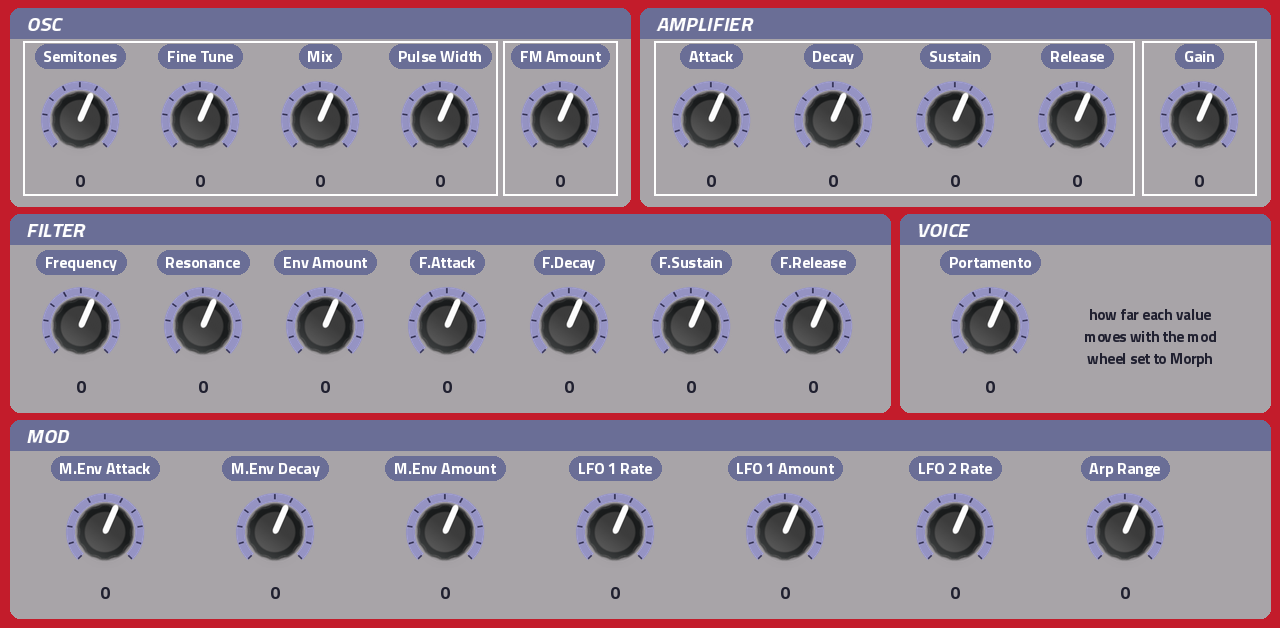
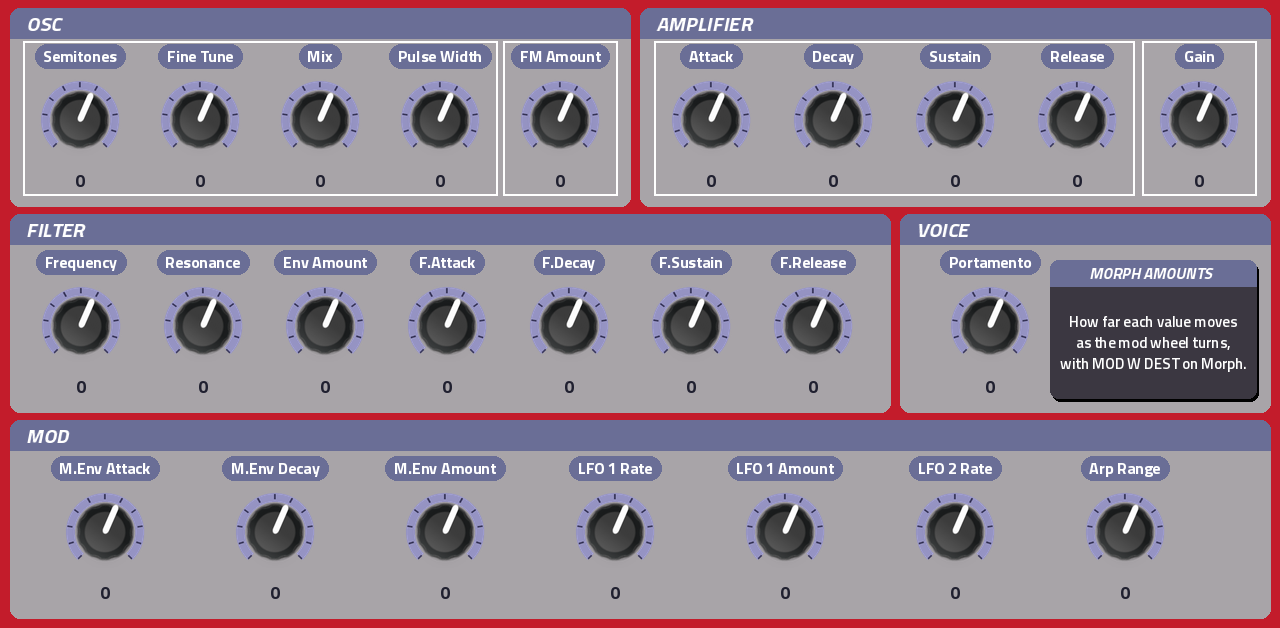
Skin: MORPH's note as a badge in the skin's colours
Claude-Session: https://claude.ai/code/session_01V7tb5w5dPsa6WFixuaniE5

Changed region(s): [[0.8125, 0.3933, 1.0, 0.6656]]

diff --git a/tools/n2x_art.py b/tools/n2x_art.py
@@ -113,6 +113,24 @@ def plain_text(im, cx, cy, text, size=16, colour=WHITE, width=200):
     ImageDraw.Draw(im).text((cx, cy), text, font=f, fill=colour + (255,), anchor="mm")
 
 
+def notice(im, x0, y0, x1, y1, title, lines, size=15):
+    """a small information badge in the skin's colours: a charcoal card, a slate title strip with the title in white oblique capitals,
+    the text centred under it in white"""
+    d = ImageDraw.Draw(im)
+    d.rounded_rectangle((x0 + 2, y0 + 3, x1 + 2, y1 + 3), 8, fill=(0, 0, 0, 70))
+    d.rounded_rectangle((x0, y0, x1, y1), 8, fill=CHAR + (255,))
+    d.rounded_rectangle((x0, y0, x1, y0 + 26), 8, fill=SLATE + (255,))
+    d.rectangle((x0, y0 + 16, x1, y0 + 26), fill=SLATE + (255,))
+    t = text_img(title.upper(), 15, WHITE, slant=0.2)
+    im.alpha_composite(t, ((x0 + x1) // 2 - t.width // 2, y0 + 13 - t.height // 2))
+    d = ImageDraw.Draw(im)
+    lh = size + 6
+    top = (y0 + 26 + y1) // 2 - lh * len(lines) // 2 + lh // 2
+    for i, ln in enumerate(lines):
+        f = fit(ln, size, x1 - x0 - 16, bold=False)
+        d.text(((x0 + x1) // 2, top + i * lh), ln, font=f, fill=WHITE + (255,), anchor="mm")
+
+
 def value_box(im, cx, cy, w=68, h=26):
     """the light box a value sits in under a knob on charcoal"""
     ImageDraw.Draw(im).rounded_rectangle((cx - w // 2, cy - h // 2, cx + w // 2, cy + h // 2), 4, fill=VALUE_BOX + (255,))

diff --git a/tools/make_tui.py b/tools/make_tui.py
@@ -530,9 +530,8 @@ def page_morph(fn):
             keys = [k for k, _ in knobs]
             for i in range(0, len(keys), 4):
                 blocks.append(keys[i:i + 4])
-    A.plain_text(pg.art, 1150, 8 + 206 + 100, "how far each value", size=15, colour=A.INK, width=200)
-    A.plain_text(pg.art, 1150, 8 + 206 + 122, "moves with the mod", size=15, colour=A.INK, width=200)
-    A.plain_text(pg.art, 1150, 8 + 206 + 144, "wheel set to Morph", size=15, colour=A.INK, width=200)
+    A.notice(pg.art, 1050, 8 + 206 + 46, 1256, 8 + 206 + 184, "Morph amounts",
+             ["How far each value moves", "as the mod wheel turns,", "with MOD W DEST on Morph."])
     for i, bl in enumerate(blocks):
         if i and i % 4 == 0:
             pg.subtab()
